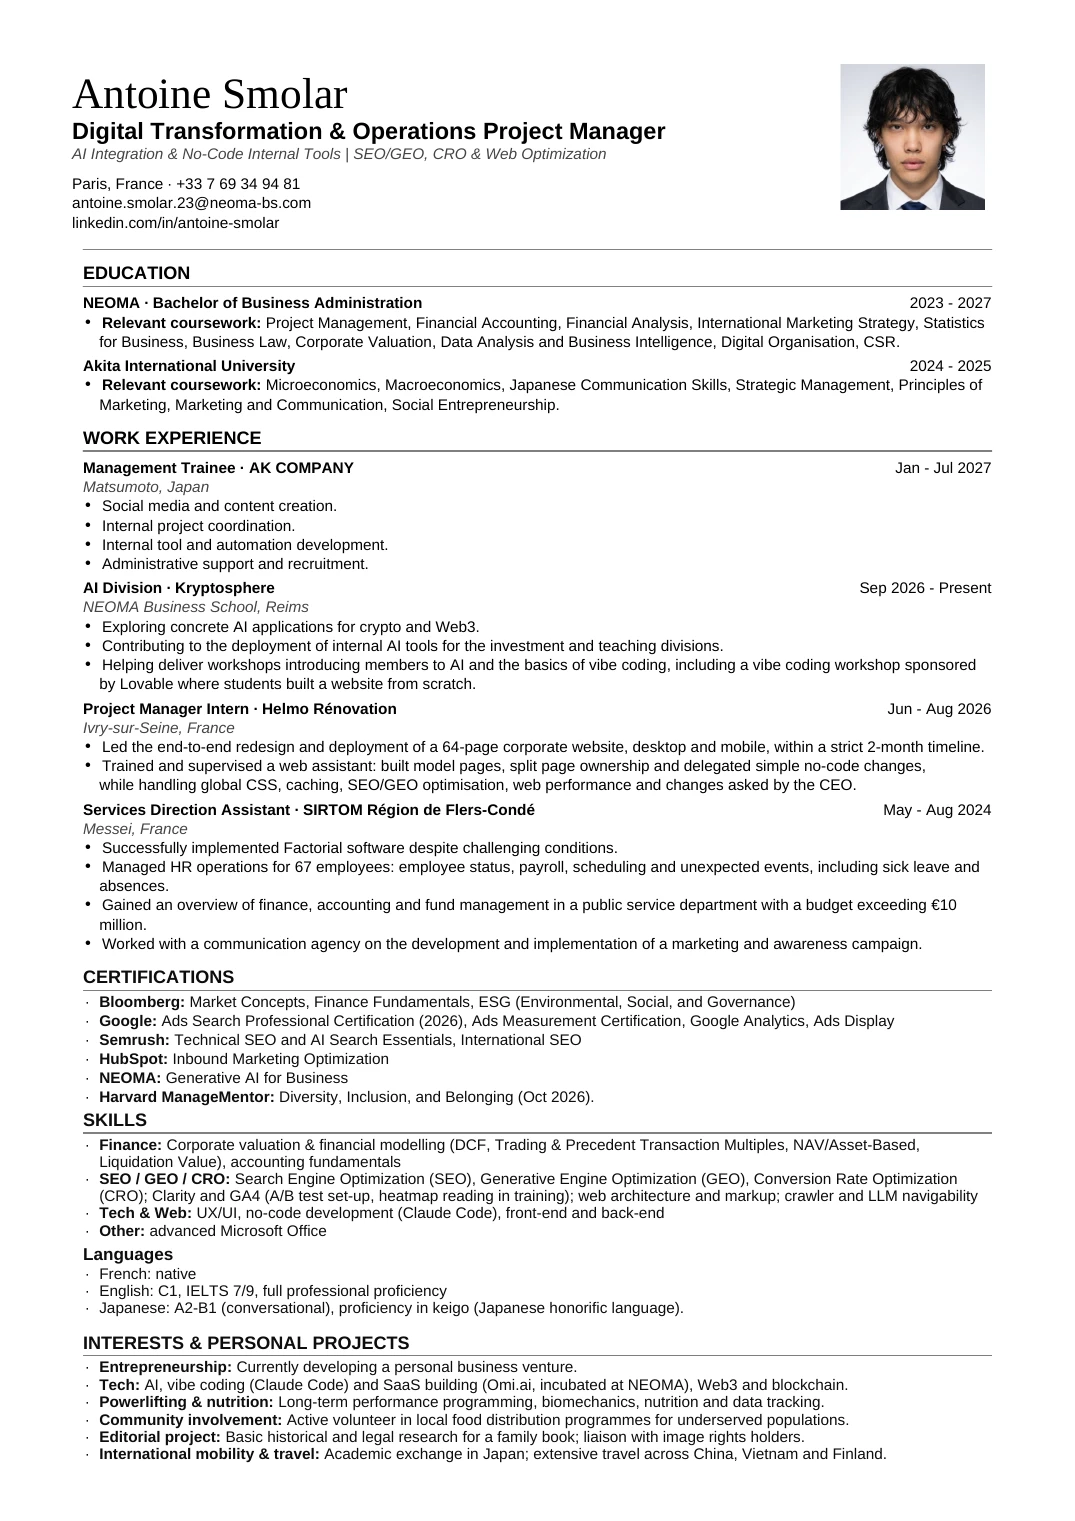
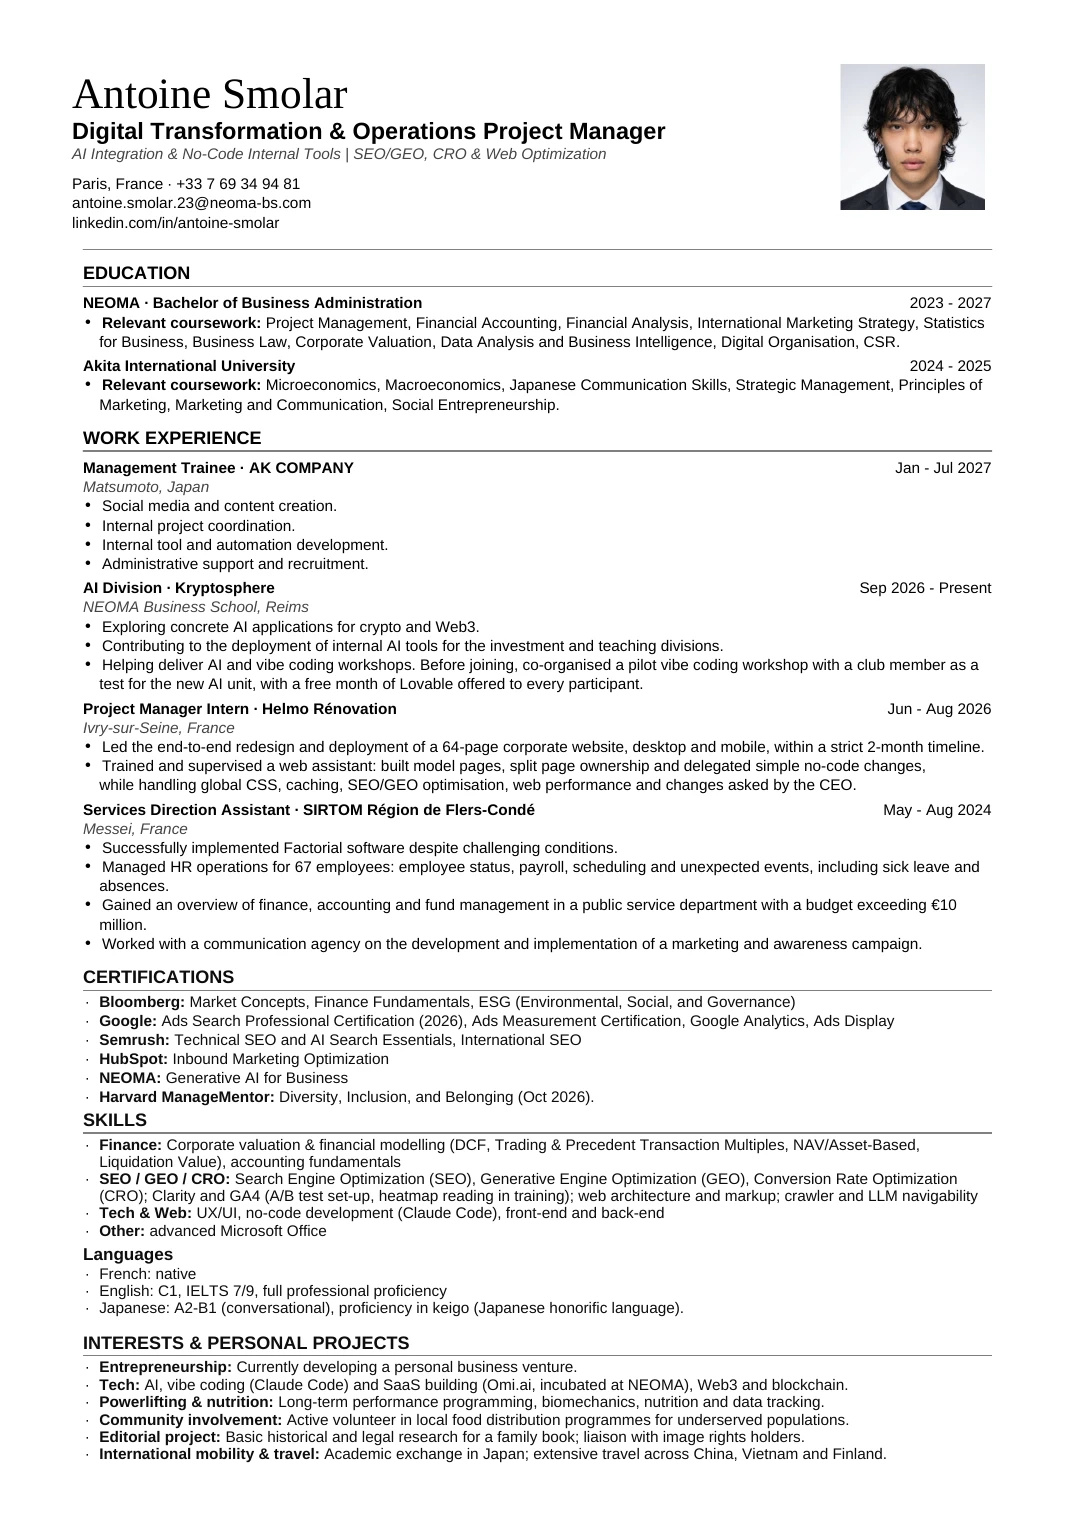
Consistency: workshop context + Lovable free month (site and CV), toned-down section promises, SIRTOM 67 permanent / ~100 with contract staff
Claude-Session: https://claude.ai/code/session_01RM7J6suh3qVdkb8kUsGcoj

Changed region(s): [[0.0921, 0.4326, 0.8902, 0.4635]]

diff --git a/lib/site.ts b/lib/site.ts
@@ -62,15 +62,15 @@ export const routes: RouteInfo[] = [
     portfolio: true,
     title: "Website case studies: SEO & UX redesigns",
     description:
-      "Website redesigns built for search and conversion: site architecture, technical SEO, structured data, page speed and GEO-ready FAQs, with real results.",
+      "Website redesigns built for search and conversion: site architecture, technical SEO, structured data, page speed and GEO-ready FAQs.",
   },
   {
     path: "/saas",
     label: "SaaS",
     portfolio: true,
-    title: "SaaS products built from idea to launch",
+    title: "SaaS projects: from idea to MVP",
     description:
-      "SaaS products designed and built end to end, like Omi.ai, an AI onboarding platform with process capture, RAG knowledge base and an AI mentor.",
+      "SaaS projects designed and built end to end, like Omi.ai, an AI onboarding platform with process capture, RAG knowledge base and an AI mentor.",
   },
   {
     path: "/internal-tools",
@@ -78,7 +78,7 @@ export const routes: RouteInfo[] = [
     portfolio: true,
     title: "Internal tools & digital transformation",
     description:
-      "Internal tools, business apps and digital transformation projects, like the rollout of the Factorial HR software at a public waste authority, that automate work and modernize how teams operate.",
+      "Digital transformation and internal tool projects: the rollout of the Factorial HR software at a public waste authority, and a team prototype of a CRM/ERP for a heating repair company.",
   },
   {
     path: "/workshops",
@@ -86,7 +86,7 @@ export const routes: RouteInfo[] = [
     portfolio: true,
     title: "Workshops & talks on AI, vibe coding and growth",
     description:
-      "Workshops and conferences led by Antoine Smolar on AI, vibe coding, no-code and growth marketing: format, audience and takeaways.",
+      "Workshops co-organised by Antoine Smolar on AI and vibe coding: format, audience and takeaways. Talks coming soon.",
   },
   {
     path: "/research",
@@ -110,7 +110,7 @@ export const routes: RouteInfo[] = [
     portfolio: true,
     title: "Traditional marketing: brand, events and campaigns",
     description:
-      "The human side of marketing by Antoine Smolar: brand, events, partnerships, print and field campaigns, with their goals and results.",
+      "The human side of marketing by Antoine Smolar: a real company case and a field campaign, with their goals and his role.",
   },
   {
     path: "/architecture-lab",

diff --git a/app/page.tsx b/app/page.tsx
@@ -70,7 +70,7 @@ const skills: Skill[] = [
   {
     short: "No-code",
     name: "App development",
-    text: "SaaS products and internal tools shipped in days, vibe coded with Claude Code.",
+    text: "An AI SaaS MVP and a CRM/ERP prototype, vibe coded with Claude Code.",
   },
   {
     short: "Digital & AI",
@@ -85,22 +85,22 @@ const projects = [
   {
     href: "/websites",
     label: "Websites",
-    text: "Showcase and e-commerce sites built for search visibility and conversion.",
+    text: "A 64-page website redesign built for search visibility and conversion.",
   },
   {
     href: "/saas",
     label: "SaaS",
-    text: "Software products built from idea to launch.",
+    text: "Software products taken from idea to MVP.",
   },
   {
     href: "/internal-tools",
     label: "Internal Tools & Digital Transformation",
-    text: "Business apps and digital projects that automate and modernize the way teams work.",
+    text: "An HR software rollout and a CRM/ERP prototype that modernise how teams work.",
   },
   {
     href: "/workshops",
     label: "Workshops & Talks",
-    text: "Workshops and conferences I have led on AI, vibe coding and growth.",
+    text: "A vibe coding workshop I co-organised; talks coming soon.",
   },
   {
     href: "/research",
